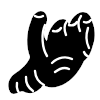
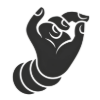
branding: эмодзипак — оригинальная рука + 7 новых знаков
- hand.png: оригинальная графика руки-мудры (фон сделан прозрачным,
  белые прорези сохранены, добавлена белая обводка), исходник hand-src.webp
- новые: манипулятор 🦾, огонь 🔥, окей 👌, поцелуй 💋, череп ☠,
  очки со штрихованными линзами 👓, цилиндр 🎩
- README: таблица дополнена, в паке 24 знака

Claude-Session: https://claude.ai/code/session_01J7cakNvVwscKzgnd8yf78u

diff --git a/branding/renders/emoji/README.md b/branding/renders/emoji/README.md
@@ -1,8 +1,9 @@
 # Эмодзипак ДИСКРЕТ
 
-17 кастом-эмодзи для Telegram в фирменном стиле: чёрный + красный #E30613,
+24 кастом-эмодзи для Telegram в фирменном стиле: чёрный + красный #E30613,
 белая обводка — чтобы знаки читались и на тёмной теме. PNG 100×100 с
-прозрачным фоном (формат кастом-эмодзи Telegram), рядом SVG-исходники.
+прозрачным фоном (формат кастом-эмодзи Telegram), рядом SVG-исходники
+(hand — растровый, исходник hand-src.webp).
 
 ## Состав
 
@@ -24,7 +25,14 @@
 | frame | фотоуголки кадра | 📷 |
 | heart | сердце с осциллограммой | ❤ |
 | solder | паяльник | 🔧 |
-| hand | рука-мудра с браслетами | 🤌 |
+| hand | рука-мудра с браслетами (оригинальная графика) | 🤌 |
+| mecharm | манипулятор с красным суставом | 🦾 |
+| fire | огонь с красным ядром | 🔥 |
+| ok | жест «окей» | 👌 |
+| lips | поцелуй | 💋 |
+| skull | череп с красными зрачками | ☠ |
+| glasses | очки со штрихованными линзами | 👓 |
+| tophat | цилиндр с красной лентой | 🎩 |
 
 ## Как собрать пак
 
